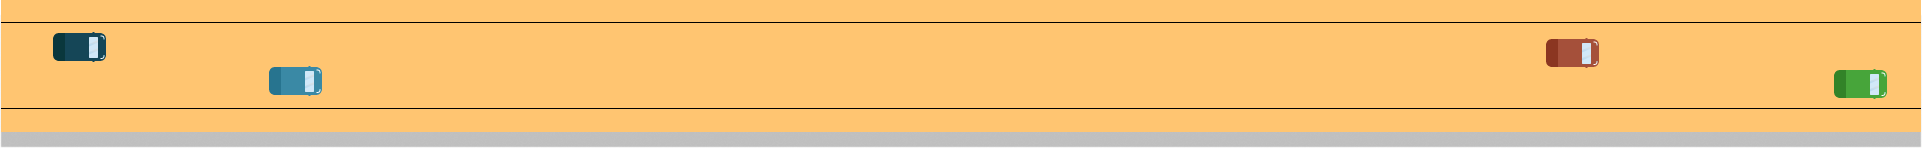
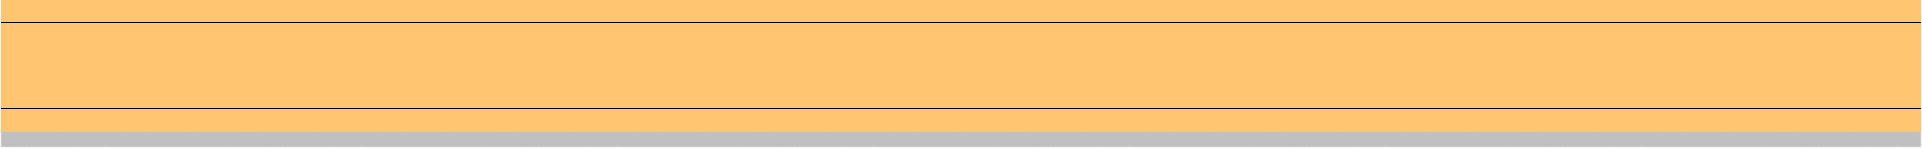
added car animation

diff --git a/src/app/components/UOttaHackHad.tsx b/src/app/components/UOttaHackHad.tsx
@@ -5,7 +5,17 @@ import road from "../assets/Road.png";
 import maps from "../assets/Maps.png";
 import { useEffect } from "react";
 
+import Car1 from "../assets/car1.svg";
+import Car2 from "../assets/car2.svg";
+import Car3 from "../assets/car3.svg";
+
+import { motion } from "framer-motion";
+import { useRef } from "react";
+import { useInView } from "framer-motion";
 const UOttaHackHad: React.FC = () => {
+  const ref = useRef(null);
+  const isInView = useInView(ref, { once: true }); // Animation triggers once when the element comes into view
+
   useEffect(() => {
     // Function to handle orientation change
     const handleOrientationChange = () => {
@@ -105,12 +115,51 @@ const UOttaHackHad: React.FC = () => {
           >
             {/* <img src={road.src} alt="Road" className={styles.roadImage} />
             <img src={maps.src} alt="Maps" className={styles.mapImage} /> */}
-            <div className="  relative z-3 h-full flex overflow-hidden ">
+            <div className="  relative z-3 h-full w-full flex overflow-hidden ">
               <img
                 src={road.src}
                 alt="Road"
                 className="w-[120%] overflow-hidden"
               />
+              {/* Car SVG Overlay */}
+              {/* Car SVG Overlay with Animation */}
+              <motion.div
+                className="absolute bottom-[30%] w-full left-0"
+                animate={{ x: ["-10%", "100%"] }}
+                transition={{ duration: 10, repeat: Infinity, ease: "linear" }}
+              >
+                <Car1 className="w-4 md:w-16 h-auto" />
+              </motion.div>
+              <motion.div
+                className="absolute bottom-[60%] w-full  left-0 "
+                animate={{ x: ["100%", "-20%"] }}
+                transition={{
+                  duration: 7,
+                  repeat: Infinity,
+                  ease: "linear",
+                  delay: 0,
+                }}
+              >
+                <Car2
+                  className="w-4 md:w-16 h-auto"
+                  style={{ transform: "scaleX(-1)" }} // Flip car horizontally
+                />
+              </motion.div>
+              <motion.div
+                className="absolute bottom-[60%] w-full  left-0 "
+                animate={{ x: ["100%", "-20%"] }}
+                transition={{
+                  duration: 7,
+                  repeat: Infinity,
+                  ease: "linear",
+                  delay: 2,
+                }}
+              >
+                <Car3
+                  className="w-4 md:w-16 h-auto"
+                  style={{ transform: "scaleX(-1)" }} // Flip car horizontally
+                />
+              </motion.div>
             </div>
             <div className="relative z-4 top-0 flex justify-center w-full -mt-[16%] ">
               <img

diff --git a/src/app/components/IntroSection.tsx b/src/app/components/IntroSection.tsx
@@ -36,7 +36,12 @@ const IntroSection: React.FC = () => {
           </h1>
 
           <div
-            className="felx space-y-10 items-center md:w-[40%] p-10 "
+            ref={ref}
+            className={`felx space-y-10 items-center md:w-[40%] p-10 ${
+              isInView
+                ? "animate-fade-left animate-once animate-duration-1000 animate-ease-out"
+                : ""
+            }`}
             style={{ fontSize: "clamp(1rem, 1vw, 4rem)" }}
           >
             <p className="">
